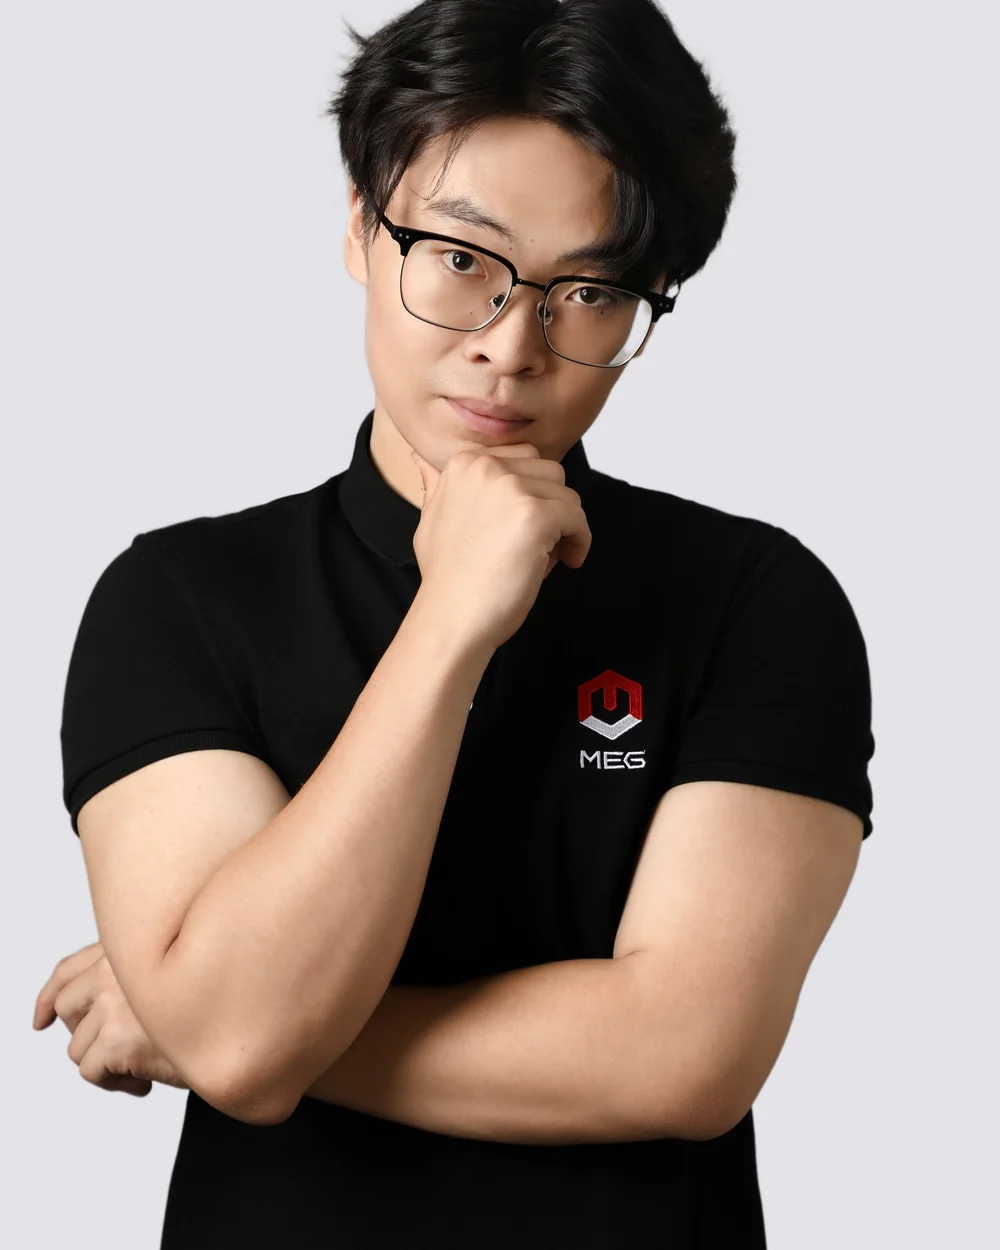
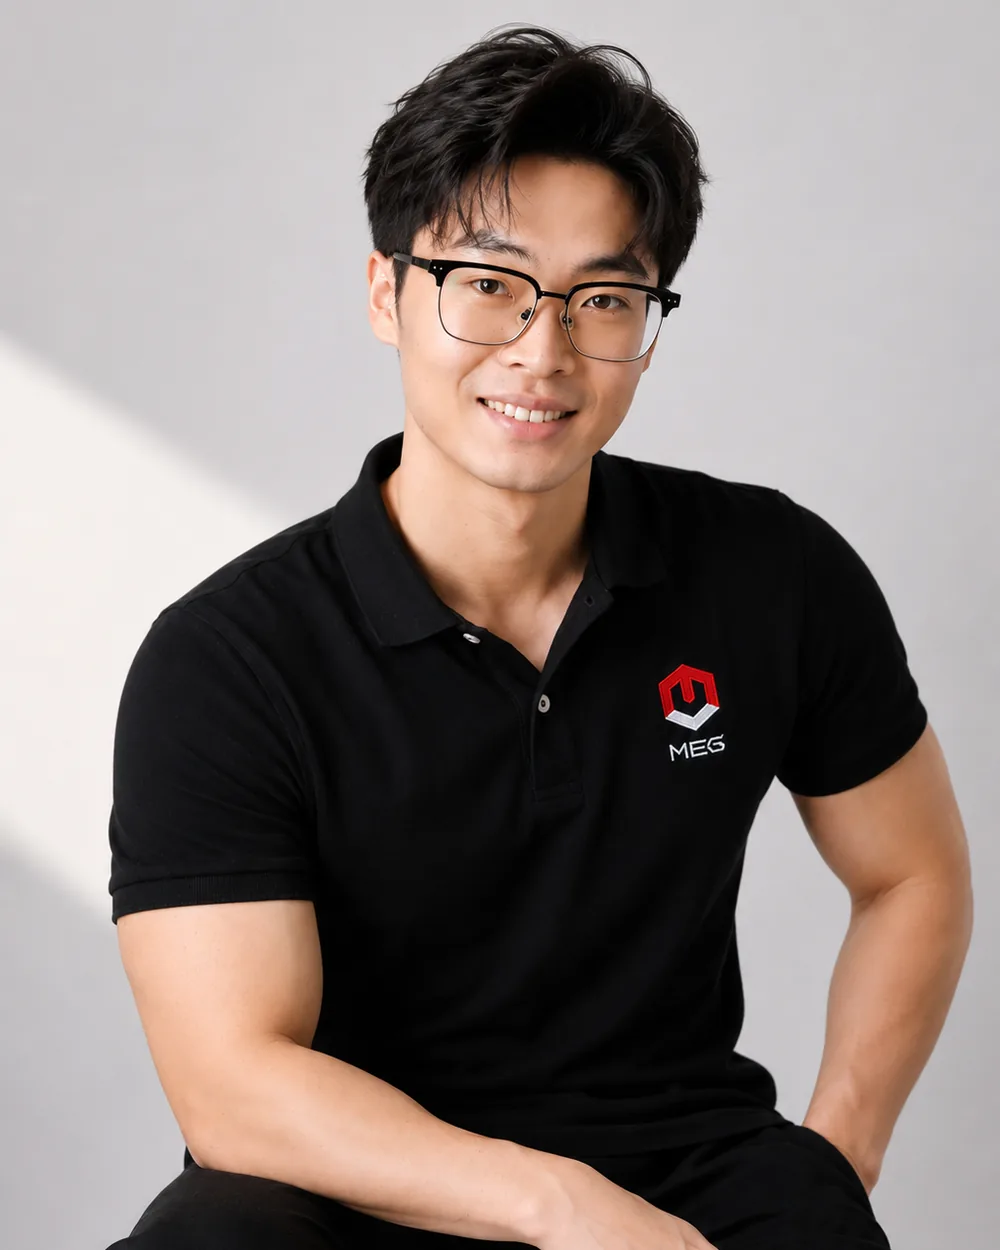
feat: update Majie coach portrait

diff --git a/tests/coach-team-check.js b/tests/coach-team-check.js
@@ -40,7 +40,7 @@ const checks = [
   ["Gym Manager Xu follows the shared coach card structure", [managerZh, managerEn].every(block => block.includes("coach-cert-summary") && block.includes("coach-positioning") && block.includes("coach-role-badge")) && managerZh.includes("查看完整介绍") && managerEn.includes("View Full Profile") && managerConfig.experience === "从业10年" && managerConfig.stats.clients === "300+" && managerConfig.stats.sessions === "12,000+"],
   ["Suixin Chinese profile owns the verified experience, performance and certifications", suixinZh.includes("coach-suixin.webp?v=20260818-1") && ["隋心", "从业8年", "200+", "10000+", "NSCA-CPT", "CBBA", "常规力量训练", "功能性训练", "增肌减脂", "腰腹塑形", "臀部塑形"].every(value => suixinZh.includes(value))],
   ["Suixin Chinese profile excludes Majie's education and certifications", ["休闲体育本科", "国家健身教练职业认证", "IBFA"].every(value => !suixinZh.includes(value))],
-  ["Majie Chinese profile owns the verified education and certifications", majieZh.includes("coach-majie.webp?v=20260818-1") && ["马杰", "休闲体育本科", "国家健身教练职业认证", "IBFA", "增肌", "减脂", "功能性训练", "循序渐进"].every(value => majieZh.includes(value))],
+  ["Majie Chinese profile owns the verified education and certifications", majieZh.includes("coach-majie.webp?v=20260818-2") && ["马杰", "休闲体育本科", "国家健身教练职业认证", "IBFA", "增肌", "减脂", "功能性训练", "循序渐进"].every(value => majieZh.includes(value))],
   ["Majie Chinese profile excludes Suixin's experience, performance and certifications", ["8年", "200+", "10000+", "10,000+", "NSCA-CPT", "CBBA", "腰腹塑形", "臀部塑形"].every(value => !majieZh.includes(value))],
   ["Suixin English profile owns only Suixin's verified facts", ["Suixin", "8 Years of Coaching Experience", "200+", "10,000+", "NSCA-CPT", "CBBA Certified Coach", "Glute Development", "Core &amp; Waistline Training"].every(value => suixinEn.includes(value)) && ["Bachelor's Degree in Leisure Sports", "Bachelor’s Degree in Leisure Sports", "National Fitness Coach Certification", "IBFA Certification"].every(value => !suixinEn.includes(value))],
   ["Majie English profile owns only Majie's verified facts", ["Majie", "Bachelor's Degree in Leisure Sports", "National Fitness Coach Certification", "IBFA Certification", "Muscle Gain", "Fat Loss", "Functional Training"].every(value => majieEn.includes(value)) && ["8 Years", "200+", "10,000+", "NSCA-CPT", "CBBA Certified Coach", "Glute Development", "Glute Shaping", "Core &amp; Waistline Training"].every(value => !majieEn.includes(value))],

diff --git a/en/index.html b/en/index.html
@@ -184,7 +184,7 @@
           </div>
         </article>
         <article class="coach-card" data-coach-id="majie">
-          <button class="coach-photo js-image-preview" type="button" data-preview-src="/assets/coach-majie.webp?v=20260818-1" data-preview-alt="Official portrait of Majie" aria-label="Enlarge photo of Majie"><img loading="lazy" decoding="async" width="1000" height="1250" src="../assets/coach-majie.webp?v=20260818-1" alt="Official portrait of Majie" data-fallback-image><span>View larger</span></button>
+          <button class="coach-photo js-image-preview" type="button" data-preview-src="/assets/coach-majie.webp?v=20260818-2" data-preview-alt="Official portrait of Majie" aria-label="Enlarge photo of Majie"><img loading="lazy" decoding="async" width="1000" height="1250" src="../assets/coach-majie.webp?v=20260818-2" alt="Official portrait of Majie" data-fallback-image><span>View larger</span></button>
           <div class="coach-card-body"><div class="coach-heading"><div><p class="detail-label">PERSONAL TRAINER</p><h3>Majie</h3><p>MEG FITNESS Personal Trainer</p></div></div>
             <p class="coach-cert-summary">Bachelor's Degree in Leisure Sports · National Fitness Coach Certification · IBFA Certification</p>
             <div class="coach-tags"><span>Muscle Gain</span><span>Fat Loss</span><span>Functional Training</span></div>

diff --git a/index.html b/index.html
@@ -169,7 +169,7 @@
           </div>
         </article>
         <article class="coach-card" data-coach-id="majie">
-          <button class="coach-photo js-image-preview" type="button" data-preview-src="/assets/coach-majie.webp?v=20260818-1" data-preview-alt="马杰教练官方形象照" aria-label="放大查看马杰教练照片"><img loading="lazy" decoding="async" width="1000" height="1250" src="assets/coach-majie.webp?v=20260818-1" alt="马杰教练官方形象照" data-fallback-image><span>点击放大</span></button>
+          <button class="coach-photo js-image-preview" type="button" data-preview-src="/assets/coach-majie.webp?v=20260818-2" data-preview-alt="马杰教练官方形象照" aria-label="放大查看马杰教练照片"><img loading="lazy" decoding="async" width="1000" height="1250" src="assets/coach-majie.webp?v=20260818-2" alt="马杰教练官方形象照" data-fallback-image><span>点击放大</span></button>
           <div class="coach-card-body"><div class="coach-heading"><div><p class="detail-label">PERSONAL TRAINER</p><h3>马杰</h3><p>MEG FITNESS 私人教练</p></div></div>
             <p class="coach-cert-summary">休闲体育本科 · 国家健身教练职业认证 · IBFA认证</p>
             <div class="coach-tags"><span>增肌</span><span>减脂</span><span>功能性训练</span></div>

diff --git a/config.js b/config.js
@@ -141,7 +141,7 @@ window.MEG_CONFIG = {
       englishName: "Majie",
       role: "MEG FITNESS 私人教练",
       englishRole: "MEG FITNESS Personal Trainer",
-      photo: "assets/coach-majie.webp?v=20260818-1",
+      photo: "assets/coach-majie.webp?v=20260818-2",
       education: "休闲体育本科",
       englishEducation: "Bachelor's Degree in Leisure Sports",
       certifications: ["国家健身教练职业认证", "IBFA 国际身体阻力与体适能协会认证"],
